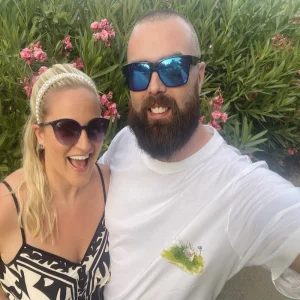
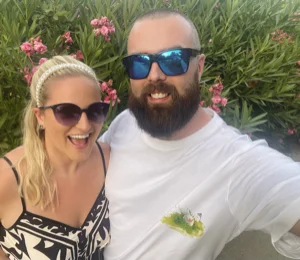
Fix Selfie aspect ratio (300x260)

diff --git a/src/components/seasonal/SeasonalDebug.tsx b/src/components/seasonal/SeasonalDebug.tsx
@@ -1,0 +1,135 @@
+/* ###########################################################
+   ###   ANTONY O'NEILL - PORTFOLIO                         ###
+   ###   SEASONAL DEBUG - Test all seasonal effects         ###
+   ###   Remove after testing!                              ###
+   ###   Last Updated: 28-12-2024                           ###
+   ########################################################### */
+
+'use client';
+
+import { useState, useEffect } from 'react';
+import type { Holiday, Season } from '@/lib/seasonal';
+
+const holidays: { value: Holiday; label: string }[] = [
+  { value: null, label: 'None' },
+  { value: 'christmas', label: '🎄 Christmas' },
+  { value: 'newyear', label: '🎉 New Year' },
+  { value: 'valentine', label: '💕 Valentine' },
+  { value: 'stpatrick', label: '☘ St Patrick' },
+  { value: 'easter', label: '🐰 Easter' },
+  { value: 'halloween', label: '🎃 Halloween' },
+];
+
+const seasons: { value: Season; label: string }[] = [
+  { value: 'winter', label: '❄ Winter' },
+  { value: 'spring', label: '🌸 Spring' },
+  { value: 'summer', label: '☀ Summer' },
+  { value: 'autumn', label: '🍂 Autumn' },
+];
+
+export default function SeasonalDebug() {
+  const [isOpen, setIsOpen] = useState(false);
+  const [holiday, setHoliday] = useState<Holiday>(null);
+  const [season, setSeason] = useState<Season>('winter');
+
+  // Load current override on mount
+  useEffect(() => {
+    try {
+      const stored = localStorage.getItem('__seasonalDebug');
+      if (stored) {
+        const { holiday: h, season: s } = JSON.parse(stored);
+        setHoliday(h);
+        setSeason(s);
+      }
+    } catch {}
+  }, []);
+
+  const applyOverride = (newHoliday: Holiday, newSeason: Season) => {
+    localStorage.setItem('__seasonalDebug', JSON.stringify({ holiday: newHoliday, season: newSeason }));
+    window.location.reload();
+  };
+
+  const clearOverride = () => {
+    localStorage.removeItem('__seasonalDebug');
+    window.location.reload();
+  };
+
+  return (
+    <>
+      {/* Toggle button */}
+      <button
+        onClick={() => setIsOpen(!isOpen)}
+        className="fixed bottom-4 left-4 z-[100] bg-black/80 text-white px-3 py-2 rounded-lg text-sm font-mono hover:bg-black/90 transition-colors"
+      >
+        🎨 Seasonal
+      </button>
+
+      {/* Control panel */}
+      {isOpen && (
+        <div className="fixed bottom-16 left-4 z-[100] bg-black/90 text-white p-4 rounded-xl text-sm font-mono w-64 shadow-2xl">
+          <div className="text-xs text-gray-400 mb-3">SEASONAL DEBUG</div>
+
+          {/* Holiday selector */}
+          <div className="mb-4">
+            <label className="block text-xs text-gray-400 mb-2">Holiday</label>
+            <div className="grid grid-cols-2 gap-1">
+              {holidays.map((h) => (
+                <button
+                  key={h.value ?? 'none'}
+                  onClick={() => setHoliday(h.value)}
+                  className={`px-2 py-1.5 rounded text-xs transition-colors ${
+                    holiday === h.value
+                      ? 'bg-white text-black'
+                      : 'bg-white/10 hover:bg-white/20'
+                  }`}
+                >
+                  {h.label}
+                </button>
+              ))}
+            </div>
+          </div>
+
+          {/* Season selector */}
+          <div className="mb-4">
+            <label className="block text-xs text-gray-400 mb-2">Season</label>
+            <div className="grid grid-cols-2 gap-1">
+              {seasons.map((s) => (
+                <button
+                  key={s.value}
+                  onClick={() => setSeason(s.value)}
+                  className={`px-2 py-1.5 rounded text-xs transition-colors ${
+                    season === s.value
+                      ? 'bg-white text-black'
+                      : 'bg-white/10 hover:bg-white/20'
+                  }`}
+                >
+                  {s.label}
+                </button>
+              ))}
+            </div>
+          </div>
+
+          {/* Apply buttons */}
+          <div className="flex gap-2">
+            <button
+              onClick={() => applyOverride(holiday, season)}
+              className="flex-1 bg-green-600 hover:bg-green-500 px-3 py-2 rounded text-xs font-bold transition-colors"
+            >
+              Apply
+            </button>
+            <button
+              onClick={clearOverride}
+              className="flex-1 bg-red-600 hover:bg-red-500 px-3 py-2 rounded text-xs font-bold transition-colors"
+            >
+              Reset
+            </button>
+          </div>
+
+          <div className="text-[10px] text-gray-500 mt-3 text-center">
+            Page will reload to apply
+          </div>
+        </div>
+      )}
+    </>
+  );
+}

diff --git a/src/components/experiments/ElasticLanyard.tsx b/src/components/experiments/ElasticLanyard.tsx
@@ -652,7 +652,7 @@ export default function ElasticLanyard({ onTensionChange, showTensionBar = true 
                   src="/images/Selfie.webp"
                   alt="Antony O'Neill"
                   width={300}
-                  height={300}
+                  height={260}
                   className="w-full h-full object-cover opacity-90"
                 />
               </div>

diff --git a/src/components/home/MobileAboutCard.tsx b/src/components/home/MobileAboutCard.tsx
@@ -175,7 +175,7 @@ export default function MobileAboutCard() {
                   src="/images/Selfie.webp"
                   alt="Antony O'Neill"
                   width={300}
-                  height={300}
+                  height={260}
                   className="w-full h-full object-cover opacity-90"
                 />
               </div>
